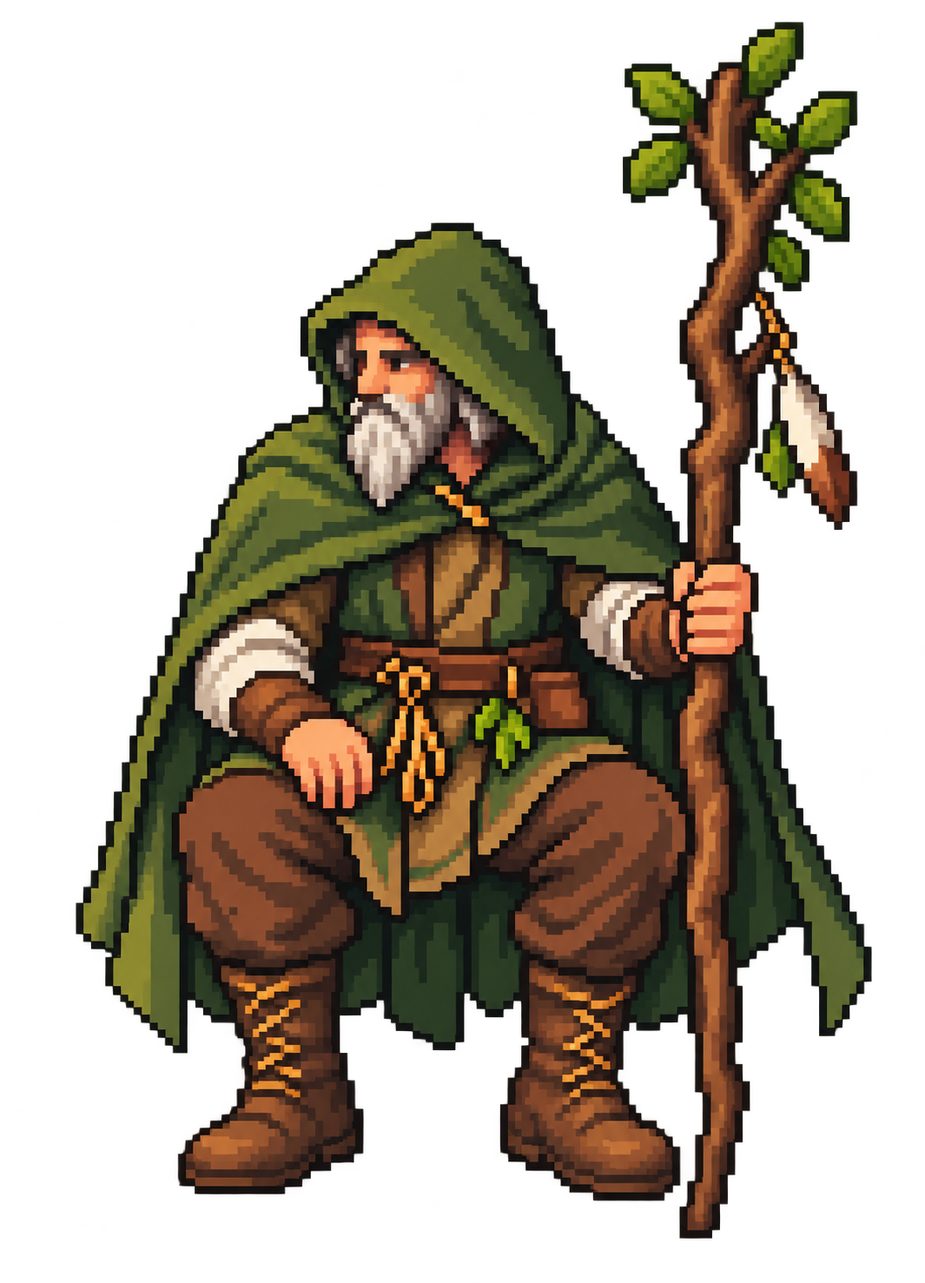
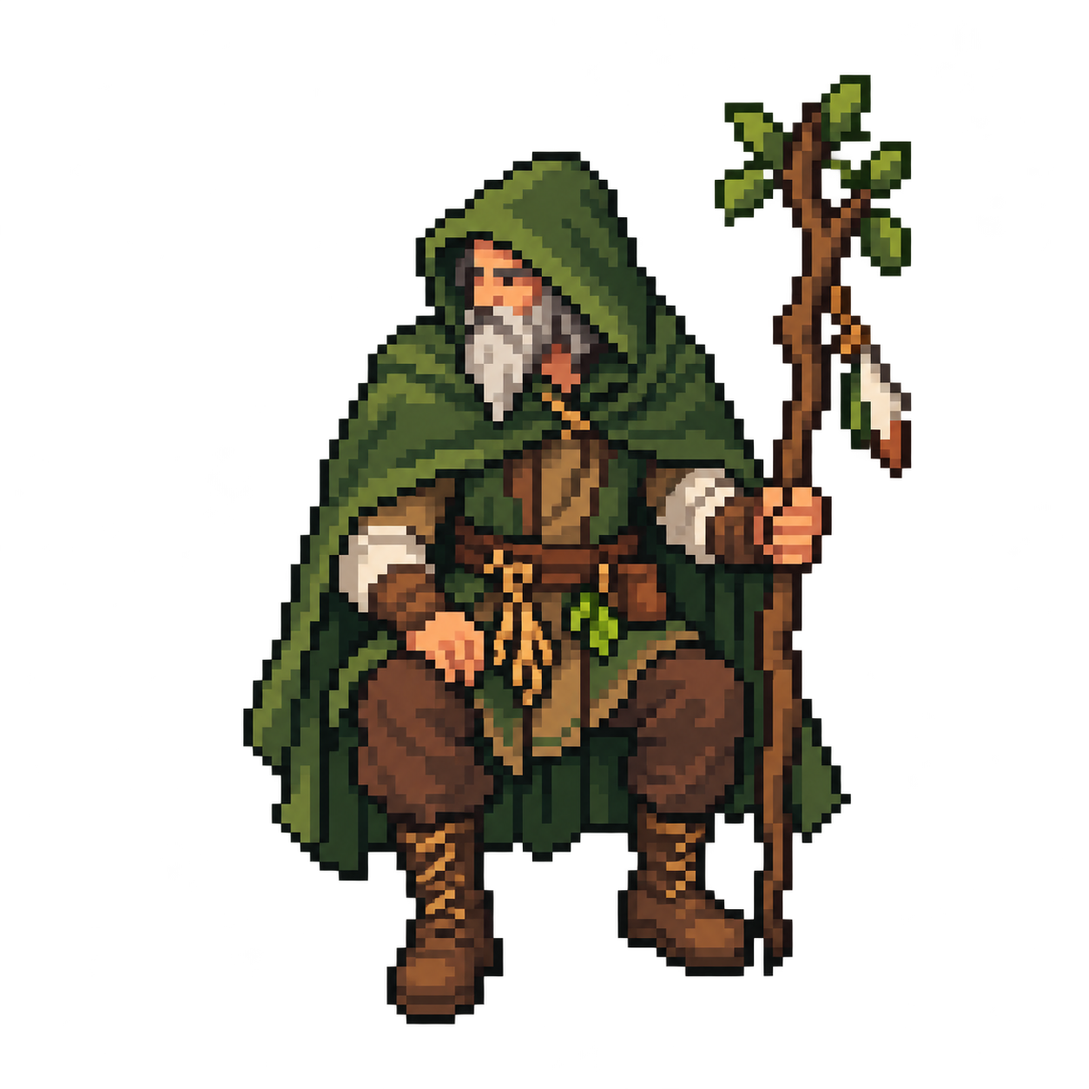
Restore previous character selection druid while preserving gameplay art

diff --git a/src/rendering/druidArt.ts b/src/rendering/druidArt.ts
@@ -11,14 +11,14 @@ export const DRUID_TEXTURES = {
 
 export const DRUID_ART = [
   { key: DRUID_TEXTURES.standing, url: standing, frame: { x: 275, y: 49, width: 745, height: 1129 } },
-  { key: DRUID_TEXTURES.campSource, url: campSource, frame: { x: 87, y: 25, width: 917, height: 1401 } },
+  { key: DRUID_TEXTURES.campSource, url: campSource, frame: { x: 280, y: 86, width: 769, height: 1093 } },
   { key: DRUID_TEXTURES.gameSource, url: gameSource, frame: { x: 154, y: 88, width: 844, height: 1250 } },
 ] as const;
 
 export const CAMP_DRUID = {
-  width: 54, height: 75, contentHeight: 67,
-  scale: 265 / 75,
-  seatOriginY: (1 + 67 * 0.67) / 75,
+  width: 40, height: 56, contentHeight: 50,
+  scale: 2.5,
+  seatOriginY: (1 + 50 * 0.67) / 56,
 } as const;
 
 export interface GameSpriteMetrics {
@@ -41,7 +41,15 @@ const GAME_PALETTE = [
   0x637266, 0x9fa98e, 0xc9cbb1,
   0x203927, 0x547348, 0x80765a, 0xb6bba0,
 ];
-const CAMP_PALETTE = [...GAME_PALETTE, 0xaaa17b, 0xbaa26b, 0x88947f, 0x344c3e, 0x796542, 0xd8d6b9];
+// Палитра меню независима: изменения игрового спрайта не меняют сидящего друида.
+const CAMP_PALETTE = [
+  0x142820,
+  0x2e4931, 0x47613a, 0x667745,
+  0x393022, 0x655134, 0x9c7e53,
+  0xad8b60, 0xc7ab7b,
+  0x637266, 0x9fa98e, 0xc9cbb1,
+  0x203927, 0xaaa17b, 0xbaa26b, 0x88947f,
+];
 
 interface SmallSprite {
   key: string; sourceKey: string;

diff --git a/docs/art/druid-detail-preview-v1/README.md b/docs/art/druid-detail-preview-v1/README.md
@@ -1,6 +1,6 @@
 # Эскизы размера и детализации друида
 
-Две одобренные картинки, сгенерированные по снимкам сцен и образу рабочего друида. На их основе подготовлены отдельные прозрачные сидящий и игровой спрайты и подключены в приложение. Эти PNG сохраняются как эскизы целых сцен; фон и интерфейс в игре остаются самостоятельными слоями.
+Две одобренные картинки, сгенерированные по снимкам сцен и образу рабочего друида. На их основе были подготовлены отдельные прозрачные сидящий и игровой спрайты. Пользователь сохранил новый игровой вариант, но попросил вернуть предыдущего сидящего друида в меню; эта замена отменена. Эти PNG сохраняются как эскизы целых сцен; фон и интерфейс в игре остаются самостоятельными слоями.
 
 ## Экран выбора персонажа
 
@@ -18,13 +18,13 @@
 
 Ориентир — нынешний размер героя на поляне, с более ясными формами капюшона, лица, бороды, складок плаща и посоха. Мелкие украшения и шумная фактура не возвращаются.
 
-## Подключённая сетка
+## Эскизы и текущая интеграция
 
-«На треть больше пикселей» в этой пробе означает увеличение разрешения примерно на треть **по каждой стороне**. Эти параметры реализованы в отдельных спрайтах; PNG в этой папке показывают одобренные эскизы целых сцен.
+«На треть больше пикселей» в этой пробе означает увеличение разрешения примерно на треть **по каждой стороне**. Игровой вариант подключён; сидящий вариант после перерисовки отклонён, в меню возвращён предыдущий образ. PNG в этой папке сохраняют эскизы целых сцен.
 
-| Вариант | Предыдущая сетка | Подключённая сетка | Масштаб на экране |
+| Вариант | Предыдущая сетка | Сетка в эскизе | Текущее состояние |
 | --- | --- | --- | --- |
-| Сидящий друид | 40×56 | 54×75 | Значительно крупнее, примерно как в главном меню |
+| Сидящий друид | 40×56 | 54×75 | Возвращён предыдущий вариант 40×56, 100×140 игровых единиц |
 | Игровой друид | 24×30 | 32×40 | Прежний размер |
 
-Для просмотра на компьютере выполните `git pull --ff-only` и откройте PNG в этой папке. На GitHub можно открыть картинку и скачать оригинал через «Download raw file». Рабочие прозрачные исходники: [сидящий друид](../../../src/assets/characters/druid-camp-source.png) и [игровой друид](../../../src/assets/characters/druid-game-source.png). Сидящая фигура отображается в размере 190,8×265 игровых единиц, игровая — в прежнем размере 87,5×109,375. Образы и размеры задаются в данных персонажа; главный экран и подробный портрет в ячейке сохранены.
+Для просмотра на компьютере выполните `git pull --ff-only` и откройте PNG в этой папке. На GitHub можно открыть картинку и скачать оригинал через «Download raw file». Рабочие прозрачные исходники: [сидящий друид](../../../src/assets/characters/druid-camp-source.png) и [игровой друид](../../../src/assets/characters/druid-game-source.png). Сидящая фигура возвращена к прежнему виду и отображается в размере 100×140 игровых единиц, игровая — в прежнем размере 87,5×109,375. Образы и размеры задаются в данных персонажа; главный экран и подробный портрет в ячейке сохранены.

diff --git a/src/assets/README.md b/src/assets/README.md
@@ -3,7 +3,7 @@
 - `main-camp.png` — прежняя согласованная иллюстрация главного меню с костром и исходным сидящим друидом. Восстановлена из версии до замены персонажа.
 - `selection-camp.png` — упрощённый пиксельный лагерь с пустым бревном. Фон выбора сохраняет принятую композицию и пикселизацию.
 - `characters/druid-standing-detail.png` — принятый первый вариант друида с исправленной связкой корешков; используется в ячейке выбора.
-- `characters/druid-camp-source.png` — прозрачный сидящий друид по одобренному эскизу; преобразуется в текстуру 54×75 с палитрой до 22 цветов для экрана выбора.
+- `characters/druid-camp-source.png` — восстановленный предыдущий прозрачный сидящий друид; преобразуется в текстуру 40×56 с прежней палитрой до 16 цветов для экрана выбора.
 - `characters/druid-game-source.png` — прозрачный игровой друид по одобренному эскизу. При загрузке превращается в текстуру 32×40 с палитрой до 16 цветов. Мелкие украшения и фактура убраны.
 
-Изображения сгенерированы и включены в сборку. Отдельные PNG персонажа имеют прозрачный фон. Сидящая фигура связана с данными выбранного персонажа в `src/data/characters.ts`; её масштаб и точка опоры задаются независимо от задника. Подробный PNG используется только в ячейке. Границы фигуры, масштаб и подготовка текстур заданы в `src/rendering/druidArt.ts`, размещение в меню — в `src/ui/layout.ts`, загрузка — в `BootScene`. Для игрового героя размер растра 32×40, размер на экране сохранён: 87,5×109,375 игровых единиц; положение ног и физическое тело задаются отдельно от масштаба. Игровой образ также выбирается из данных персонажа (`game.texture` и `game.metrics`). Сидящая фигура отображается в размере 190,8×265 игровых единиц. Спрайты статические; анимацию подготовим отдельным этапом.
+Изображения сгенерированы и включены в сборку. Отдельные PNG персонажа имеют прозрачный фон. Сидящая фигура связана с данными выбранного персонажа в `src/data/characters.ts`; её масштаб и точка опоры задаются независимо от задника. Подробный PNG используется только в ячейке. Границы фигуры, масштаб и подготовка текстур заданы в `src/rendering/druidArt.ts`, размещение в меню — в `src/ui/layout.ts`, загрузка — в `BootScene`. Для игрового героя размер растра 32×40, размер на экране сохранён: 87,5×109,375 игровых единиц; положение ног и физическое тело задаются отдельно от масштаба. Игровой образ также выбирается из данных персонажа (`game.texture` и `game.metrics`). Сидящая фигура отображается в прежнем размере 100×140 игровых единиц. Спрайты статические; анимацию подготовим отдельным этапом.

diff --git a/docs/art/druid-sprites-v1/README.md b/docs/art/druid-sprites-v1/README.md
@@ -1,6 +1,6 @@
 # Друид: три варианта игрового спрайта
 
-Из этих вариантов принят **первый — «Лесной странник»**. Исправленный [рабочий образ](../../../src/assets/characters/druid-standing-detail.png) получил отдельную связку корешков слева от зрителя вместо цветов. Для экрана выбора подготовлен отдельно перерисованный [пиксельный сидящий образ](../../../src/assets/characters/druid-camp-source.png), преобразуемый в текстуру 54×75. Главное меню сохраняет прежний вид. Для комнаты используется [упрощённый рисунок для игры](../../../src/assets/characters/druid-game-source.png), который преобразуется в текстуру 32×40. Ниже сохранены исходные три варианта для сравнения. Один ракурс сверху, нейтральная поза в полный рост и сопоставимый масштаб. Основа — зрелый мужчина с капюшоном, неухоженной острой седой бородой, тканевым плащом и посохом из кривой сосновой ветки с листьями и перьями. Ориентир образа — друид из принятого главного меню.
+Из этих вариантов принят **первый — «Лесной странник»**. Исправленный [рабочий образ](../../../src/assets/characters/druid-standing-detail.png) получил отдельную связку корешков слева от зрителя вместо цветов. Для экрана выбора подготовлен отдельно перерисованный [пиксельный сидящий образ](../../../src/assets/characters/druid-camp-source.png), преобразуемый в текстуру 40×56. Главное меню сохраняет прежний вид. Для комнаты используется [упрощённый рисунок для игры](../../../src/assets/characters/druid-game-source.png), который преобразуется в текстуру 32×40. Ниже сохранены исходные три варианта для сравнения. Один ракурс сверху, нейтральная поза в полный рост и сопоставимый масштаб. Основа — зрелый мужчина с капюшоном, неухоженной острой седой бородой, тканевым плащом и посохом из кривой сосновой ветки с листьями и перьями. Ориентир образа — друид из принятого главного меню.
 
 Все три PNG имеют размер **1254×1254** и прозрачный фон. Высота основной непрозрачной фигуры различается не более чем на 5 пикселей. Это исходные варианты для сравнения; рабочая игровая сетка теперь 32×40, кадры направлений и движений ещё предстоит подготовить. Исходная тройка была сгенерирована отдельно для обсуждения образа; выбранная и исправленная версия теперь используется в игре.
 

diff --git a/docs/VISUAL_STYLE.md b/docs/VISUAL_STYLE.md
@@ -14,7 +14,7 @@
 
 ## Выбор персонажа
 
-Лес, костёр и бревно сохраняют композицию, но фон имеет более простые пиксельные формы. На бревне сидит отдельно перерисованная версия рабочего друида: крупные простые цветовые формы вместо высокой детализации портрета. Текстура 54×75 пикселей, до 22 цветов; отображение 190,8×265 игровых единиц. Фигура значительно крупнее, по масштабу ближе к друиду главного меню; немного яснее лицо, руки, борода и складки. Внешний вид фигуры, масштаб и её точка опоры задаются в данных выбранного персонажа, чтобы позже переключать образы без перерисовки леса. Остальные ячейки пока закрыты. Ячейка друида показывает его рабочий образ в полный рост. Слева три ячейки: первая доступна, остальные затемнены. Смена фона, интерфейса и персонажа должна выполняться независимо.
+Лес, костёр и бревно сохраняют композицию, но фон имеет более простые пиксельные формы. На бревне сидит отдельно перерисованная версия рабочего друида: крупные простые цветовые формы вместо высокой детализации портрета. По просьбе пользователя восстановлен предыдущий сидящий образ без перерисовки: текстура 40×56 пикселей, до 16 цветов, отображение 100×140 игровых единиц и прежняя точка опоры на бревне. Более крупная перерисованная версия отклонена; новый игровой спрайт сохранён. Внешний вид фигуры, масштаб и её точка опоры задаются в данных выбранного персонажа, чтобы позже переключать образы без перерисовки леса. Остальные ячейки пока закрыты. Ячейка друида показывает его рабочий образ в полный рост. Слева три ячейки: первая доступна, остальные затемнены. Смена фона, интерфейса и персонажа должна выполняться независимо.
 
 Первый принятый экран выбора сохранён меткой Git `character-select-v1` (коммит `07952f3`): фон 480×270, увеличенный до 960×540 без сглаживания. Это первая примерно готовая визуальная веха проекта.
 
